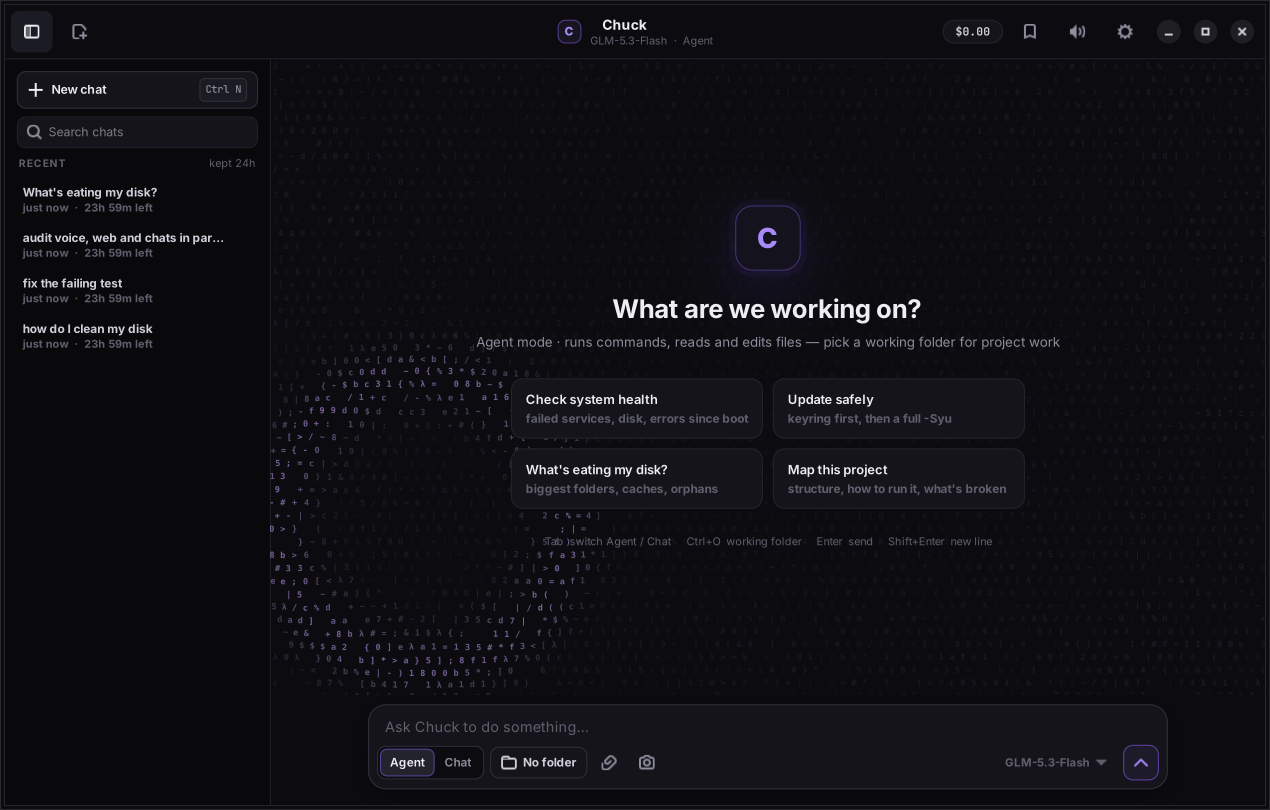
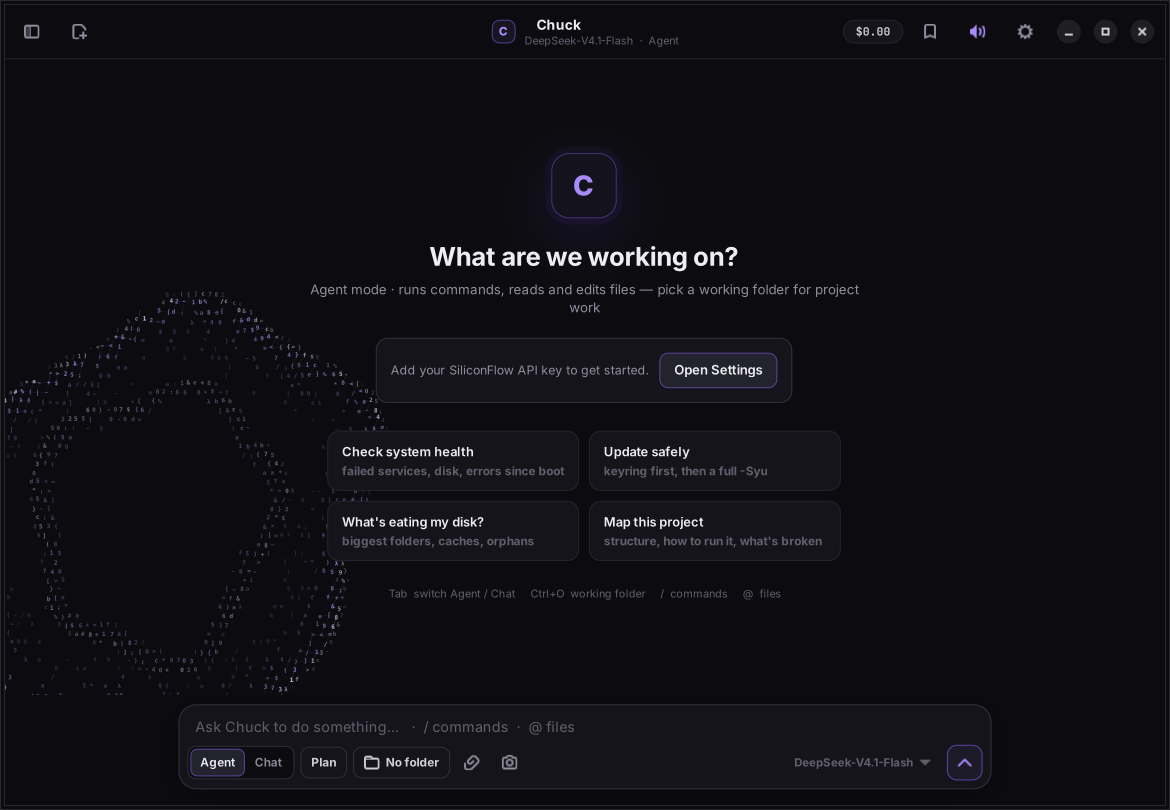
Show the new fabric in the welcome screenshot
Claude-Session: https://claude.ai/code/session_016guqUpKP2JjwuC8KaEh3jr

diff --git a/README.md b/README.md
@@ -12,7 +12,7 @@ Runs commands, edits real code, plays its own web apps in a real browser, keeps 
 ![deps](https://img.shields.io/badge/runtime_deps-stdlib_+_GTK-2ea043?style=flat-square&labelColor=0c0c10)
 ![licence](https://img.shields.io/badge/licence-MIT-8b5cf6?style=flat-square&labelColor=0c0c10)
 
-<img src="assets/screenshots/welcome.png" alt="Chuck's welcome screen: a dark window with a field of tiny code glyphs rippling from a click" width="100%">
+<img src="assets/screenshots/welcome.png" alt="Chuck's welcome screen: a woven field of tiny code glyphs struck by a click, its uneven wavefront and echo spreading under the welcome card" width="100%">
 
 </div>
 
